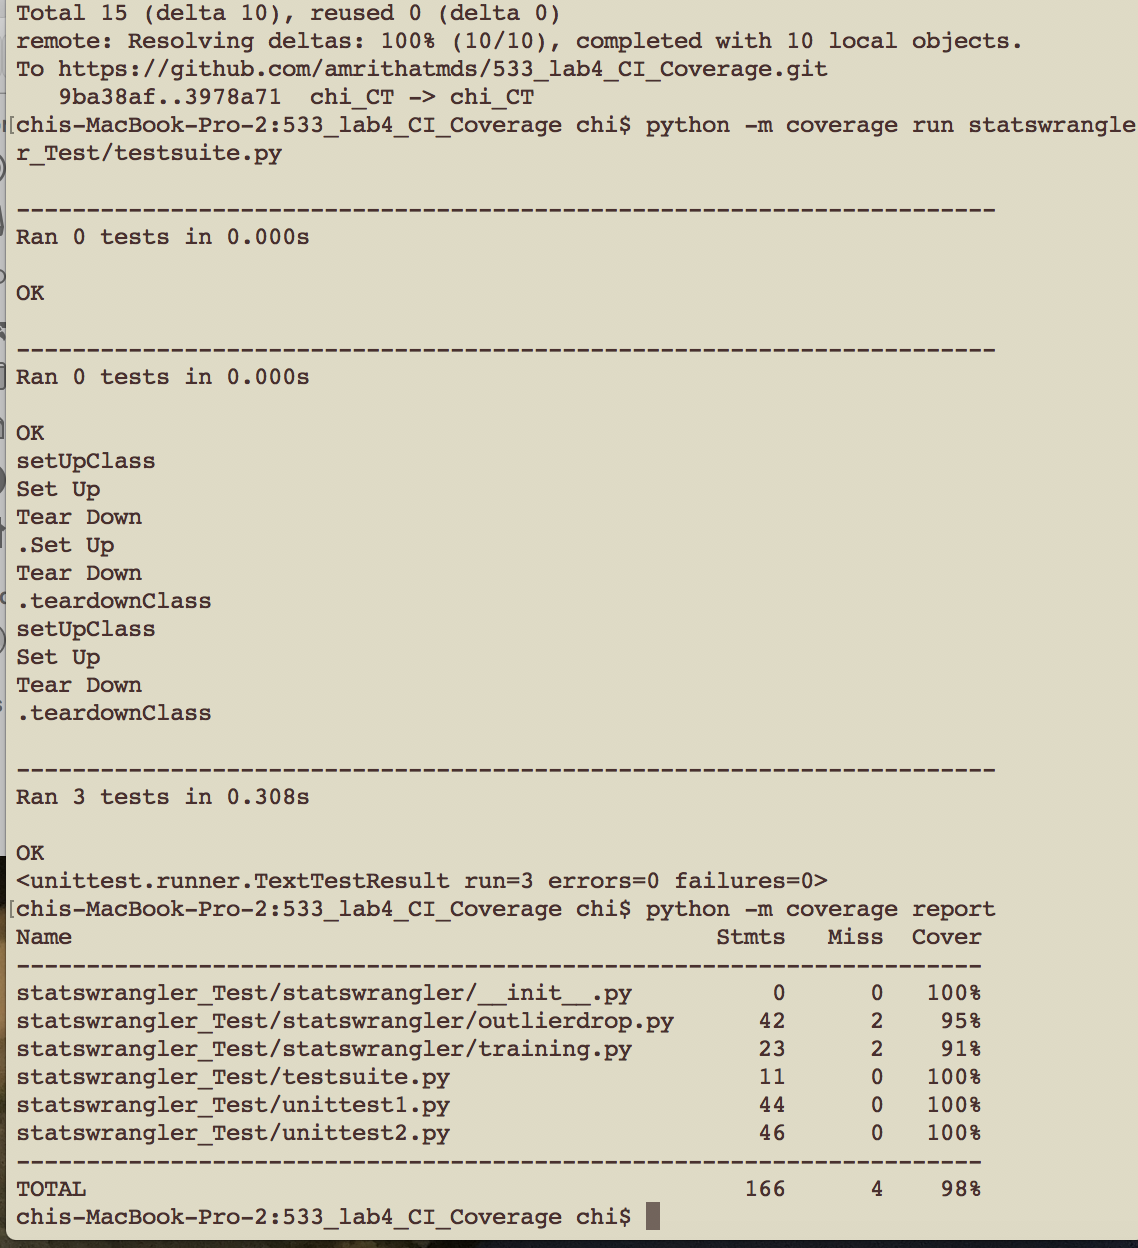
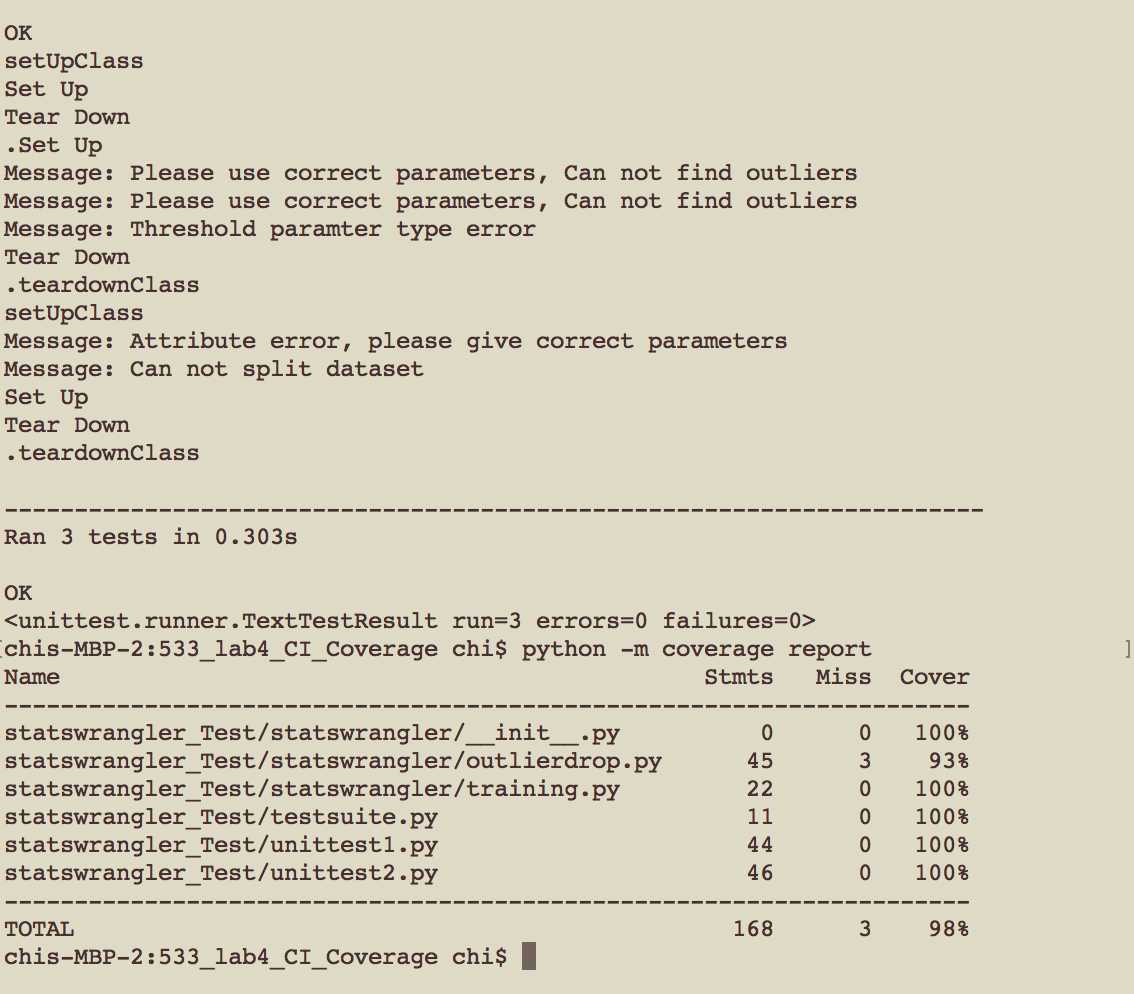
update coverage

Changed region(s): [[0.0, 0.0, 1.0, 1.0], [0.4938, 0.3119, 0.679, 0.3742], [0.8025, 0.0312, 0.8951, 0.0624]]

diff --git a/statswrangler_Test/statswrangler/training.py b/statswrangler_Test/statswrangler/training.py
@@ -19,17 +19,17 @@ class TrainingData:
                 rows = len(self.dataframe)
                 train = round(rows*self.percentage)
             except:
-                return ("Message: Attribute error, please give correct parameters")
+                print ("Message: Attribute error, please give correct parameters")
+                return None
             data = self.dataframe
             
             #drop = True, will keep its index without replacing it with a new index
             df = data.sample(frac=1, random_state=1).reset_index(drop=True)
-            try: 
-                trainingdata = df[0:train]
-                testdata = df[train:rows]
-                return (trainingdata, testdata)
-            except:
-                return ("Message: Index Error, please check inputs")
+            trainingdata = df[0:train]
+            testdata = df[train:rows]
+            return (trainingdata, testdata)
+ 
         except:
-            return("Message: Can not split dataset")
+            print("Message: Can not split dataset")
+            return None
 

diff --git a/statswrangler_Test/statswrangler/outlierdrop.py b/statswrangler_Test/statswrangler/outlierdrop.py
@@ -32,7 +32,8 @@ class Data:
             #and the outliers themselves
             return (self.index, self.outliers)
         except: 
-            return ("Message: Please use correct parameters, Can not find outliers")
+            print ("Message: Please use correct parameters, Can not find outliers")
+            return None
     
 class Dropped(Data):
     #threshold meaning the amount of outlier observations allowed to be dropped 
@@ -48,7 +49,8 @@ class Dropped(Data):
             else:
                 self.index = self.index[0:self.threshold]
         except:
-            return ("Message: Threshold paramter type error")
+            print ("Message: Threshold paramter type error")
+            return None
                          
         try:            
             df = self.dataframe 
@@ -56,4 +58,5 @@ class Dropped(Data):
 
             return df.drop(df.index[l])
         except:
-            return ("Index not in dataframe, can not drop outliers")
+            print ("Index not in dataframe, can not drop outliers")
+            return None

diff --git a/statswrangler_Test/unittest1.py b/statswrangler_Test/unittest1.py
@@ -59,8 +59,8 @@ class TestOutlierdrop(unittest.TestCase):
         #check for equal
         self.assertEqual(self.d1.Outliers(), ([11, 53, 58], [345000, 385000, 438780])) 
         self.assertEqual(self.d2.Outliers(), ([41, 53, 66, 75], [16905, 50271, 19900, 1596]))
-        self.assertEqual(self.d6.Outliers(), "Message: Please use correct parameters, Can not find outliers")
-        self.assertEqual(self.d6.DropOutliers(), ("Message: Threshold paramter type error"))
+        self.assertEqual(self.d6.Outliers(), None)
+        self.assertEqual(self.d6.DropOutliers(), None)
         #check outliers in the series if they match the index
         for i in self.a1:
             self.assertIn(s1[i], self.b1)

diff --git a/statswrangler_Test/unittest2.py b/statswrangler_Test/unittest2.py
@@ -53,8 +53,8 @@ class TestTraining(unittest.TestCase):
     
 
     def test_SplitTrain(self): #test case
-        self.assertEqual(self.t4,("Message: Attribute error, please give correct parameters"))
-        self.assertEqual(self.t5,("Message: Can not split dataset"))
+        self.assertEqual(self.t4,None)
+        self.assertEqual(self.t5,None)
         #check if the function SplitTrain() returns a tuple 
         self.assertIs(type(self.together), type((2,2)) )
         
